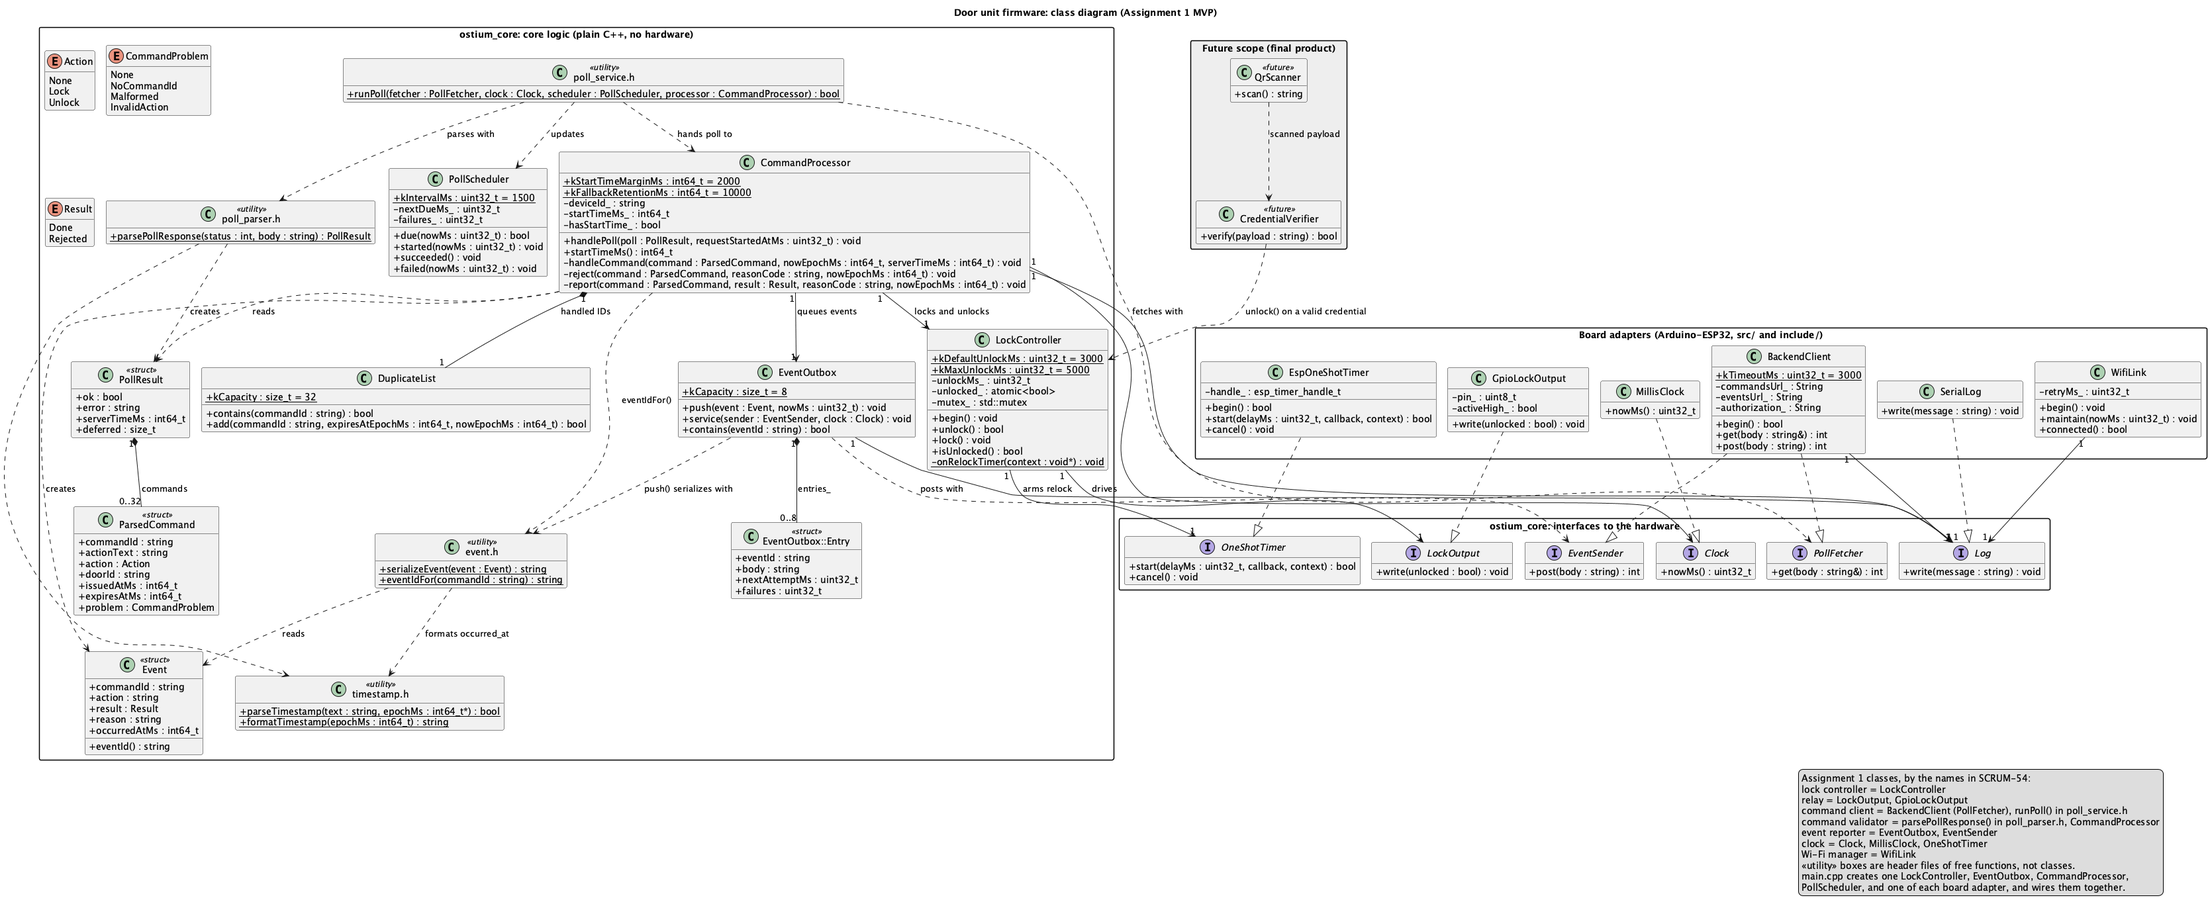
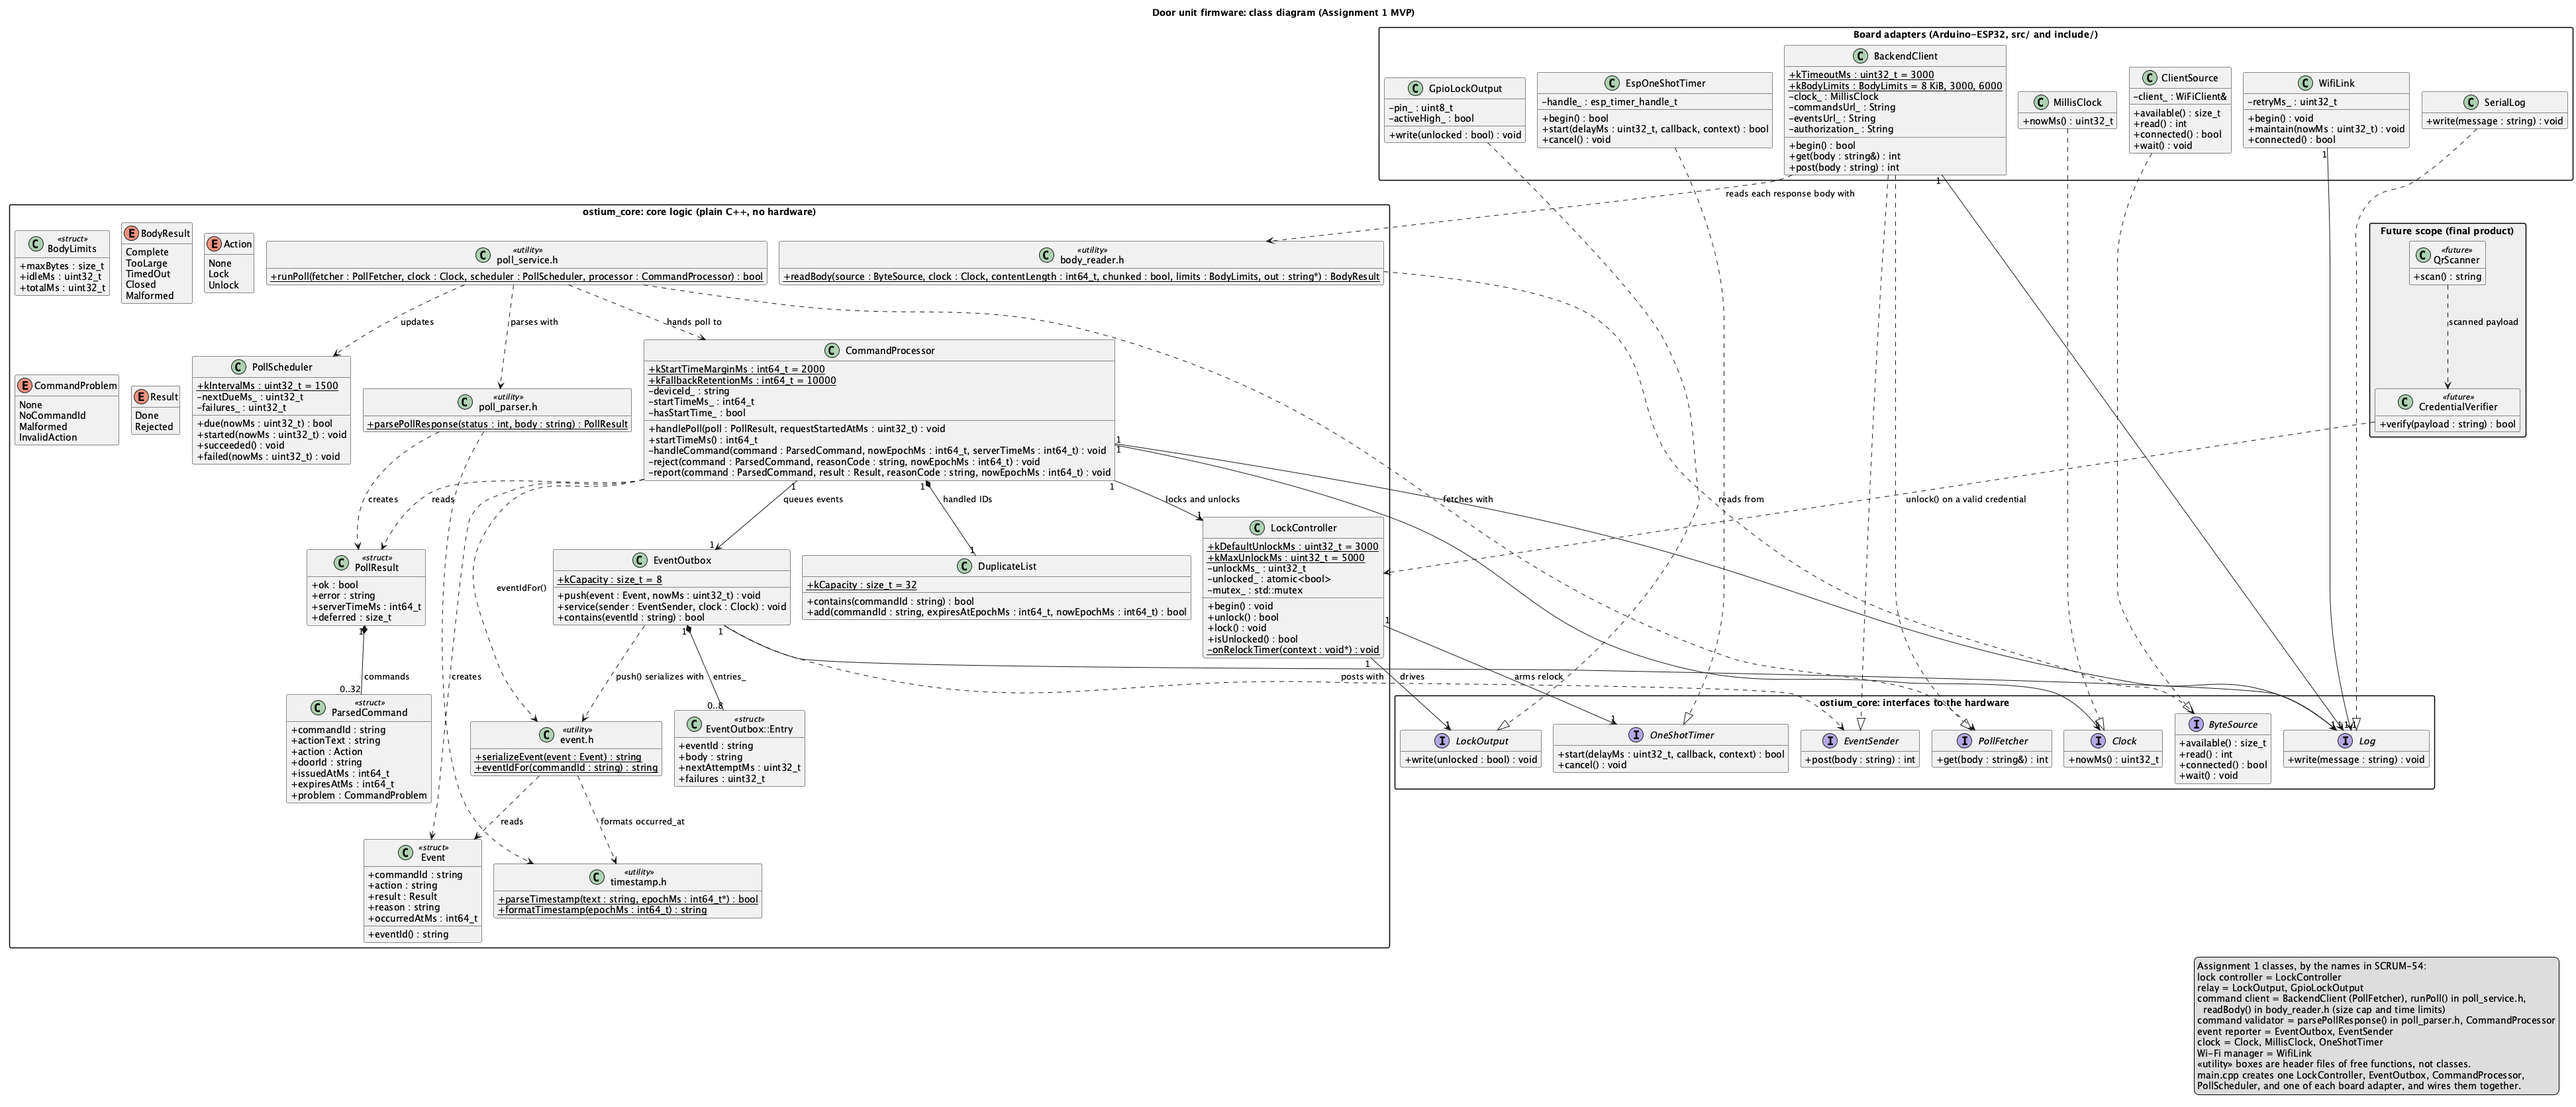
SCRUM-54: Add the response body reader to the class diagram
PR #22 added readBody() and the ByteSource interface, so the class
diagram no longer matched the code.

- class-diagram.puml: body_reader.h as a <<utility>> box with BodyLimits
  and BodyResult in the core, ByteSource with the other interfaces, and
  ClientSource with the board adapters. BackendClient shows kBodyLimits
  and its clock. The legend maps readBody() to the command client role.
- The SVG and PNG are rendered again with PlantUML 1.2025.10. The PNG is
  3,890 px wide, inside PlantUML's 4,096 px default limit, so nothing is
  clipped.
- design.md: the role table and the free-function list include readBody().

diff --git a/docs/firmware/design.md b/docs/firmware/design.md
@@ -41,14 +41,14 @@ The source is [`diagrams/class-diagram.puml`](diagrams/class-diagram.puml), and 
 |---|---|
 | Lock controller | `LockController` |
 | Relay | `LockOutput`, `GpioLockOutput` |
-| Command client | `BackendClient` (as `PollFetcher`), `runPoll()` in `poll_service.h` |
+| Command client | `BackendClient` (as `PollFetcher`), `runPoll()` in `poll_service.h`, and `readBody()` in `body_reader.h` with `ClientSource` (as `ByteSource`) |
 | Command validator | `parsePollResponse()` in `poll_parser.h`, `CommandProcessor` |
 | Event reporter | `EventOutbox`, `EventSender` |
 | Clock | `Clock`, `MillisClock`, `OneShotTimer` |
 | Wi-Fi manager | `WifiLink` |
 | QR scanner, credential verifier (future scope) | `QrScanner`, `CredentialVerifier` |
 
-`runPoll()`, `parsePollResponse()`, `parseTimestamp()`, `formatTimestamp()`, `serializeEvent()`, and `eventIdFor()` are free functions in the code. The diagram draws each header's free functions as a `<<utility>>` box named after the header, so their dependencies are visible.
+`runPoll()`, `readBody()`, `parsePollResponse()`, `parseTimestamp()`, `formatTimestamp()`, `serializeEvent()`, and `eventIdFor()` are free functions in the code. The diagram draws each header's free functions as a `<<utility>>` box named after the header, so their dependencies are visible.
 
 SCRUM-54 also asks for the firmware classes in the team's class diagram. The repository doesn't have a team class diagram yet, so the firmware classes are only in this one. If the team assembles a combined diagram for the report, `firmware-class-diagram.png` is ready to include.
 
